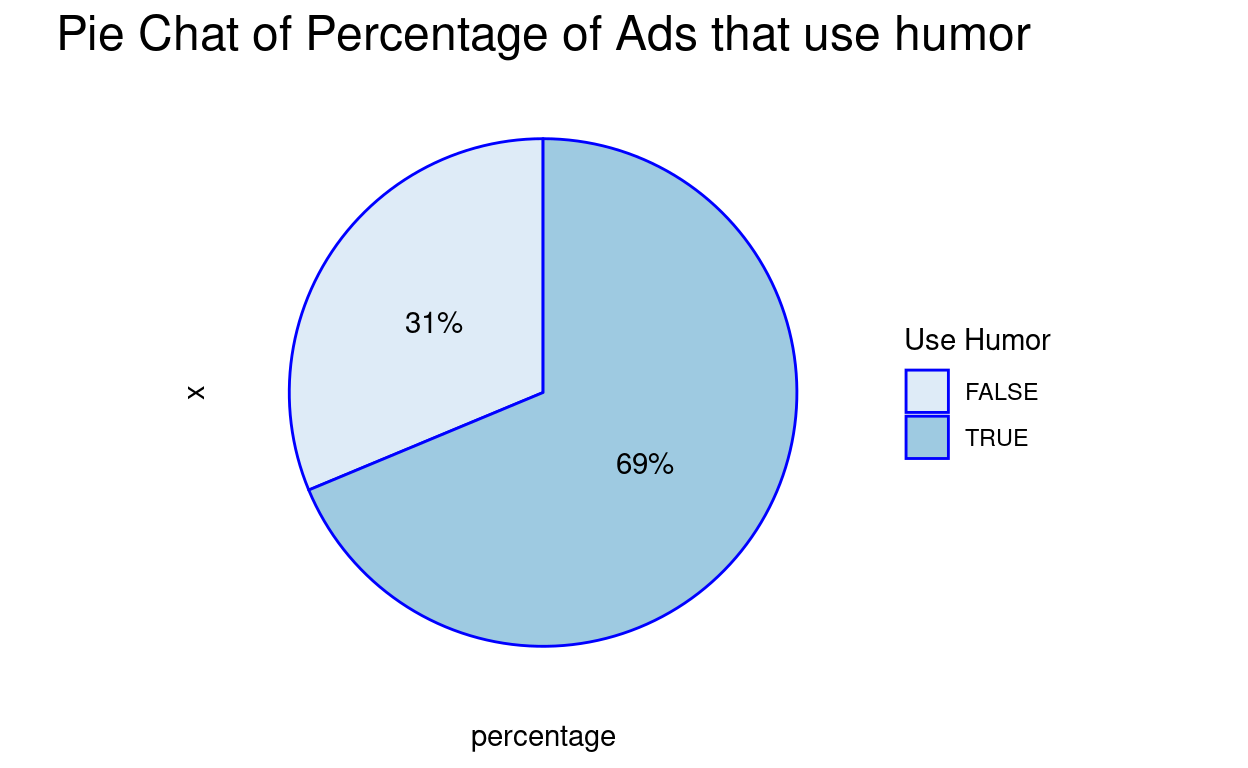
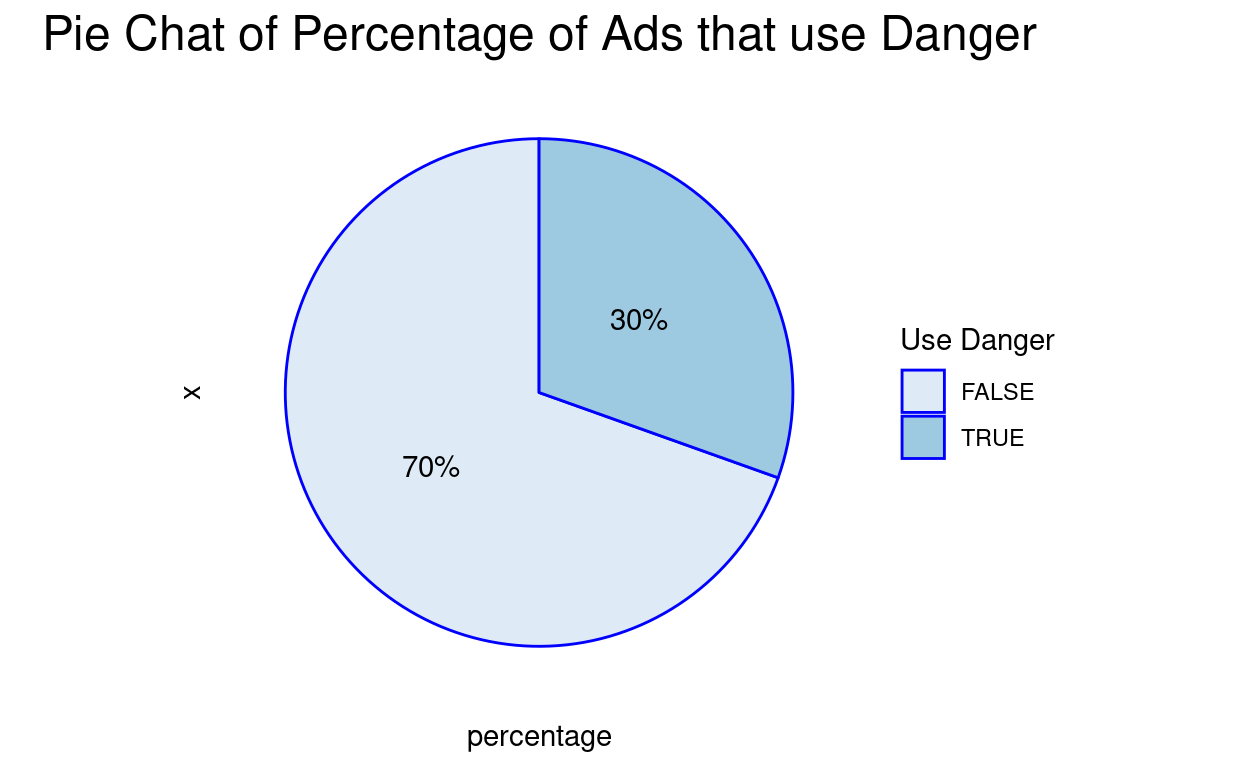
formatting

diff --git a/docs/costanalysis.html b/docs/costanalysis.html
@@ -2174,22 +2174,22 @@ code span.wa { color: #5e5e5e; font-style: italic; } /* Warning */
 
 </div>
 <div class="layout-chunk" data-layout="l-body">
-<div id="htmlwidget-2c9929de8510b4bedf44" style="width:624px;height:384px;" class="highchart html-widget"></div>
-<script type="application/json" data-for="htmlwidget-2c9929de8510b4bedf44">{"x":{"hc_opts":{"chart":{"reflow":true},"title":{"text":"Average Cost of Super Bowl Ads Over 20 Years"},"yAxis":{"title":{"text":"avg_ad_cost"},"type":"linear"},"credits":{"enabled":false},"exporting":{"enabled":false},"boost":{"enabled":false},"plotOptions":{"series":{"label":{"enabled":false},"turboThreshold":0,"showInLegend":true},"treemap":{"layoutAlgorithm":"squarified"},"scatter":{"marker":{"symbol":"circle"}}},"series":[{"name":2000,"data":[{"year":2000,"avg_ad_cost":2231250,"x":2000,"y":2231250}],"type":"line"},{"name":2001,"data":[{"year":2001,"avg_ad_cost":3046153.84615385,"x":2001,"y":3046153.84615385}],"type":"line"},{"name":2002,"data":[{"year":2002,"avg_ad_cost":2970000,"x":2002,"y":2970000}],"type":"line"},{"name":2003,"data":[{"year":2003,"avg_ad_cost":3483333.33333333,"x":2003,"y":3483333.33333333}],"type":"line"},{"name":2004,"data":[{"year":2004,"avg_ad_cost":2616136.36363636,"x":2004,"y":2616136.36363636}],"type":"line"},{"name":2005,"data":[{"year":2005,"avg_ad_cost":2700000,"x":2005,"y":2700000}],"type":"line"},{"name":2006,"data":[{"year":2006,"avg_ad_cost":2857142.85714286,"x":2006,"y":2857142.85714286}],"type":"line"},{"name":2007,"data":[{"year":2007,"avg_ad_cost":2896514.64285714,"x":2007,"y":2896514.64285714}],"type":"line"},{"name":2008,"data":[{"year":2008,"avg_ad_cost":3634565.57692308,"x":2008,"y":3634565.57692308}],"type":"line"},{"name":2009,"data":[{"year":2009,"avg_ad_cost":3999946.66666667,"x":2009,"y":3999946.66666667}],"type":"line"},{"name":2010,"data":[{"year":2010,"avg_ad_cost":4395848.21428571,"x":2010,"y":4395848.21428571}],"type":"line"},{"name":2011,"data":[{"year":2011,"avg_ad_cost":5855555.55555556,"x":2011,"y":5855555.55555556}],"type":"line"},{"name":2012,"data":[{"year":2012,"avg_ad_cost":5794444.44444444,"x":2012,"y":5794444.44444444}],"type":"line"},{"name":2013,"data":[{"year":2013,"avg_ad_cost":6037777.77777778,"x":2013,"y":6037777.77777778}],"type":"line"},{"name":2014,"data":[{"year":2014,"avg_ad_cost":7428571.42857143,"x":2014,"y":7428571.42857143}],"type":"line"},{"name":2015,"data":[{"year":2015,"avg_ad_cost":6375000,"x":2015,"y":6375000}],"type":"line"},{"name":2016,"data":[{"year":2016,"avg_ad_cost":6923076.92307692,"x":2016,"y":6923076.92307692}],"type":"line"},{"name":2017,"data":[{"year":2017,"avg_ad_cost":10000000,"x":2017,"y":10000000}],"type":"line"},{"name":2018,"data":[{"year":2018,"avg_ad_cost":8728571.42857143,"x":2018,"y":8728571.42857143}],"type":"line"},{"name":2019,"data":[{"year":2019,"avg_ad_cost":10423333.3333333,"x":2019,"y":10423333.3333333}],"type":"line"},{"name":2020,"data":[{"year":2020,"avg_ad_cost":11900000,"x":2020,"y":11900000}],"type":"line"}],"xAxis":{"type":"linear","title":{"text":"year"},"categories":null}},"theme":{"chart":{"backgroundColor":"transparent"},"colors":["#7cb5ec","#434348","#90ed7d","#f7a35c","#8085e9","#f15c80","#e4d354","#2b908f","#f45b5b","#91e8e1"]},"conf_opts":{"global":{"Date":null,"VMLRadialGradientURL":"http =//code.highcharts.com/list(version)/gfx/vml-radial-gradient.png","canvasToolsURL":"http =//code.highcharts.com/list(version)/modules/canvas-tools.js","getTimezoneOffset":null,"timezoneOffset":0,"useUTC":true},"lang":{"contextButtonTitle":"Chart context menu","decimalPoint":".","downloadCSV":"Download CSV","downloadJPEG":"Download JPEG image","downloadPDF":"Download PDF document","downloadPNG":"Download PNG image","downloadSVG":"Download SVG vector image","downloadXLS":"Download XLS","drillUpText":"◁ Back to {series.name}","exitFullscreen":"Exit from full screen","exportData":{"annotationHeader":"Annotations","categoryDatetimeHeader":"DateTime","categoryHeader":"Category"},"hideData":"Hide data table","invalidDate":null,"loading":"Loading...","months":["January","February","March","April","May","June","July","August","September","October","November","December"],"noData":"No data to display","numericSymbolMagnitude":1000,"numericSymbols":["k","M","G","T","P","E"],"printChart":"Print chart","resetZoom":"Reset zoom","resetZoomTitle":"Reset zoom level 1:1","shortMonths":["Jan","Feb","Mar","Apr","May","Jun","Jul","Aug","Sep","Oct","Nov","Dec"],"shortWeekdays":["Sat","Sun","Mon","Tue","Wed","Thu","Fri"],"thousandsSep":" ","viewData":"View data table","viewFullscreen":"View in full screen","weekdays":["Sunday","Monday","Tuesday","Wednesday","Thursday","Friday","Saturday"]}},"type":"chart","fonts":[],"debug":false},"evals":[],"jsHooks":[]}</script>
+<div id="htmlwidget-6475c9b25623a43f790e" style="width:624px;height:384px;" class="highchart html-widget"></div>
+<script type="application/json" data-for="htmlwidget-6475c9b25623a43f790e">{"x":{"hc_opts":{"chart":{"reflow":true},"title":{"text":"Average Cost of Super Bowl Ads Over 20 Years"},"yAxis":{"title":{"text":"avg_ad_cost"},"type":"linear"},"credits":{"enabled":false},"exporting":{"enabled":false},"boost":{"enabled":false},"plotOptions":{"series":{"label":{"enabled":false},"turboThreshold":0,"showInLegend":true},"treemap":{"layoutAlgorithm":"squarified"},"scatter":{"marker":{"symbol":"circle"}}},"series":[{"name":2000,"data":[{"year":2000,"avg_ad_cost":2231250,"x":2000,"y":2231250}],"type":"line"},{"name":2001,"data":[{"year":2001,"avg_ad_cost":3046153.84615385,"x":2001,"y":3046153.84615385}],"type":"line"},{"name":2002,"data":[{"year":2002,"avg_ad_cost":2970000,"x":2002,"y":2970000}],"type":"line"},{"name":2003,"data":[{"year":2003,"avg_ad_cost":3483333.33333333,"x":2003,"y":3483333.33333333}],"type":"line"},{"name":2004,"data":[{"year":2004,"avg_ad_cost":2616136.36363636,"x":2004,"y":2616136.36363636}],"type":"line"},{"name":2005,"data":[{"year":2005,"avg_ad_cost":2700000,"x":2005,"y":2700000}],"type":"line"},{"name":2006,"data":[{"year":2006,"avg_ad_cost":2857142.85714286,"x":2006,"y":2857142.85714286}],"type":"line"},{"name":2007,"data":[{"year":2007,"avg_ad_cost":2896514.64285714,"x":2007,"y":2896514.64285714}],"type":"line"},{"name":2008,"data":[{"year":2008,"avg_ad_cost":3634565.57692308,"x":2008,"y":3634565.57692308}],"type":"line"},{"name":2009,"data":[{"year":2009,"avg_ad_cost":3999946.66666667,"x":2009,"y":3999946.66666667}],"type":"line"},{"name":2010,"data":[{"year":2010,"avg_ad_cost":4395848.21428571,"x":2010,"y":4395848.21428571}],"type":"line"},{"name":2011,"data":[{"year":2011,"avg_ad_cost":5855555.55555556,"x":2011,"y":5855555.55555556}],"type":"line"},{"name":2012,"data":[{"year":2012,"avg_ad_cost":5794444.44444444,"x":2012,"y":5794444.44444444}],"type":"line"},{"name":2013,"data":[{"year":2013,"avg_ad_cost":6037777.77777778,"x":2013,"y":6037777.77777778}],"type":"line"},{"name":2014,"data":[{"year":2014,"avg_ad_cost":7428571.42857143,"x":2014,"y":7428571.42857143}],"type":"line"},{"name":2015,"data":[{"year":2015,"avg_ad_cost":6375000,"x":2015,"y":6375000}],"type":"line"},{"name":2016,"data":[{"year":2016,"avg_ad_cost":6923076.92307692,"x":2016,"y":6923076.92307692}],"type":"line"},{"name":2017,"data":[{"year":2017,"avg_ad_cost":10000000,"x":2017,"y":10000000}],"type":"line"},{"name":2018,"data":[{"year":2018,"avg_ad_cost":8728571.42857143,"x":2018,"y":8728571.42857143}],"type":"line"},{"name":2019,"data":[{"year":2019,"avg_ad_cost":10423333.3333333,"x":2019,"y":10423333.3333333}],"type":"line"},{"name":2020,"data":[{"year":2020,"avg_ad_cost":11900000,"x":2020,"y":11900000}],"type":"line"}],"xAxis":{"type":"linear","title":{"text":"year"},"categories":null}},"theme":{"chart":{"backgroundColor":"transparent"},"colors":["#7cb5ec","#434348","#90ed7d","#f7a35c","#8085e9","#f15c80","#e4d354","#2b908f","#f45b5b","#91e8e1"]},"conf_opts":{"global":{"Date":null,"VMLRadialGradientURL":"http =//code.highcharts.com/list(version)/gfx/vml-radial-gradient.png","canvasToolsURL":"http =//code.highcharts.com/list(version)/modules/canvas-tools.js","getTimezoneOffset":null,"timezoneOffset":0,"useUTC":true},"lang":{"contextButtonTitle":"Chart context menu","decimalPoint":".","downloadCSV":"Download CSV","downloadJPEG":"Download JPEG image","downloadPDF":"Download PDF document","downloadPNG":"Download PNG image","downloadSVG":"Download SVG vector image","downloadXLS":"Download XLS","drillUpText":"◁ Back to {series.name}","exitFullscreen":"Exit from full screen","exportData":{"annotationHeader":"Annotations","categoryDatetimeHeader":"DateTime","categoryHeader":"Category"},"hideData":"Hide data table","invalidDate":null,"loading":"Loading...","months":["January","February","March","April","May","June","July","August","September","October","November","December"],"noData":"No data to display","numericSymbolMagnitude":1000,"numericSymbols":["k","M","G","T","P","E"],"printChart":"Print chart","resetZoom":"Reset zoom","resetZoomTitle":"Reset zoom level 1:1","shortMonths":["Jan","Feb","Mar","Apr","May","Jun","Jul","Aug","Sep","Oct","Nov","Dec"],"shortWeekdays":["Sat","Sun","Mon","Tue","Wed","Thu","Fri"],"thousandsSep":" ","viewData":"View data table","viewFullscreen":"View in full screen","weekdays":["Sunday","Monday","Tuesday","Wednesday","Thursday","Friday","Saturday"]}},"type":"chart","fonts":[],"debug":false},"evals":[],"jsHooks":[]}</script>
 </div>
 <div class="layout-chunk" data-layout="l-body">
 <p><img src="costanalysis_files/figure-html5/boxplot,%20reorder-1.png" width="624" /></p>
 </div>
 <p>sunburst Plot of total Ad Cost</p>
 <div class="layout-chunk" data-layout="l-body">
-<div id="htmlwidget-b48b0747140eea3d19dc" style="width:624px;height:384px;" class="highchart html-widget"></div>
-<script type="application/json" data-for="htmlwidget-b48b0747140eea3d19dc">{"x":{"hc_opts":{"chart":{"reflow":true},"title":{"text":"Total Ad Cost by Category and Brand in Millions from 2000-2020"},"yAxis":{"title":{"text":null}},"credits":{"enabled":false},"exporting":{"enabled":false},"boost":{"enabled":false},"plotOptions":{"series":{"label":{"enabled":false},"turboThreshold":0},"treemap":{"layoutAlgorithm":"squarified"}},"series":[{"data":[{"name":"beer","id":"beer","color":"#7cb5ec","level":1},{"name":"car","id":"car","color":"#434348","level":1},{"name":"pop","id":"pop","color":"#90ed7d","level":1},{"name":"NFL","id":"nfl","color":"#f7a35c","level":1},{"name":"snack","id":"snack","color":"#8085e9","level":1},{"name":"finance","id":"finance","color":"#f15c80","level":1},{"name":"Bud Light","id":"beer_bud_light","parent":"beer","value":235.373121,"level":2},{"name":"Budweiser","id":"beer_budweiser","parent":"beer","value":195.2654035,"level":2},{"name":"Hynudai","id":"car_hynudai","parent":"car","value":168.717199666667,"level":2},{"name":"Coca-Cola","id":"pop_coca-cola","parent":"pop","value":131.955784,"level":2},{"name":"Kia","id":"car_kia","parent":"car","value":131.535025,"level":2},{"name":"NFL","id":"nfl_nfl","parent":"nfl","value":126.30802,"level":2},{"name":"Doritos","id":"snack_doritos","parent":"snack","value":102.207603,"level":2},{"name":"Toyota","id":"car_toyota","parent":"car","value":97.6895966666667,"level":2},{"name":"Pepsi","id":"pop_pepsi","parent":"pop","value":92.630383,"level":2},{"name":"E-Trade","id":"finance_e-trade","parent":"finance","value":38.67033,"level":2}],"type":"sunburst"}]},"theme":{"chart":{"backgroundColor":"transparent"},"colors":["#7cb5ec","#434348","#90ed7d","#f7a35c","#8085e9","#f15c80","#e4d354","#2b908f","#f45b5b","#91e8e1"]},"conf_opts":{"global":{"Date":null,"VMLRadialGradientURL":"http =//code.highcharts.com/list(version)/gfx/vml-radial-gradient.png","canvasToolsURL":"http =//code.highcharts.com/list(version)/modules/canvas-tools.js","getTimezoneOffset":null,"timezoneOffset":0,"useUTC":true},"lang":{"contextButtonTitle":"Chart context menu","decimalPoint":".","downloadCSV":"Download CSV","downloadJPEG":"Download JPEG image","downloadPDF":"Download PDF document","downloadPNG":"Download PNG image","downloadSVG":"Download SVG vector image","downloadXLS":"Download XLS","drillUpText":"◁ Back to {series.name}","exitFullscreen":"Exit from full screen","exportData":{"annotationHeader":"Annotations","categoryDatetimeHeader":"DateTime","categoryHeader":"Category"},"hideData":"Hide data table","invalidDate":null,"loading":"Loading...","months":["January","February","March","April","May","June","July","August","September","October","November","December"],"noData":"No data to display","numericSymbolMagnitude":1000,"numericSymbols":["k","M","G","T","P","E"],"printChart":"Print chart","resetZoom":"Reset zoom","resetZoomTitle":"Reset zoom level 1:1","shortMonths":["Jan","Feb","Mar","Apr","May","Jun","Jul","Aug","Sep","Oct","Nov","Dec"],"shortWeekdays":["Sat","Sun","Mon","Tue","Wed","Thu","Fri"],"thousandsSep":" ","viewData":"View data table","viewFullscreen":"View in full screen","weekdays":["Sunday","Monday","Tuesday","Wednesday","Thursday","Friday","Saturday"]}},"type":"chart","fonts":[],"debug":false},"evals":[],"jsHooks":[]}</script>
-<div id="htmlwidget-c3c75205a7a7ac2eb5e8" style="width:624px;height:384px;" class="highchart html-widget"></div>
-<script type="application/json" data-for="htmlwidget-c3c75205a7a7ac2eb5e8">{"x":{"hc_opts":{"chart":{"reflow":true},"title":{"text":null},"yAxis":{"title":{"text":null}},"credits":{"enabled":false},"exporting":{"enabled":false},"boost":{"enabled":false},"plotOptions":{"series":{"label":{"enabled":false},"turboThreshold":0},"treemap":{"layoutAlgorithm":"squarified"}},"series":[{"data":[{"name":"beer","id":"beer","color":"#7cb5ec","level":1},{"name":"car","id":"car","color":"#434348","level":1},{"name":"pop","id":"pop","color":"#90ed7d","level":1},{"name":"NFL","id":"nfl","color":"#f7a35c","level":1},{"name":"snack","id":"snack","color":"#8085e9","level":1},{"name":"finance","id":"finance","color":"#f15c80","level":1},{"name":"Bud Light","id":"beer_bud_light","parent":"beer","value":235.373121,"level":2},{"name":"Budweiser","id":"beer_budweiser","parent":"beer","value":195.2654035,"level":2},{"name":"Hynudai","id":"car_hynudai","parent":"car","value":168.717199666667,"level":2},{"name":"Coca-Cola","id":"pop_coca-cola","parent":"pop","value":131.955784,"level":2},{"name":"Kia","id":"car_kia","parent":"car","value":131.535025,"level":2},{"name":"NFL","id":"nfl_nfl","parent":"nfl","value":126.30802,"level":2},{"name":"Doritos","id":"snack_doritos","parent":"snack","value":102.207603,"level":2},{"name":"Toyota","id":"car_toyota","parent":"car","value":97.6895966666667,"level":2},{"name":"Pepsi","id":"pop_pepsi","parent":"pop","value":92.630383,"level":2},{"name":"E-Trade","id":"finance_e-trade","parent":"finance","value":38.67033,"level":2}],"type":"treemap"}]},"theme":{"chart":{"backgroundColor":"transparent"},"colors":["#7cb5ec","#434348","#90ed7d","#f7a35c","#8085e9","#f15c80","#e4d354","#2b908f","#f45b5b","#91e8e1"]},"conf_opts":{"global":{"Date":null,"VMLRadialGradientURL":"http =//code.highcharts.com/list(version)/gfx/vml-radial-gradient.png","canvasToolsURL":"http =//code.highcharts.com/list(version)/modules/canvas-tools.js","getTimezoneOffset":null,"timezoneOffset":0,"useUTC":true},"lang":{"contextButtonTitle":"Chart context menu","decimalPoint":".","downloadCSV":"Download CSV","downloadJPEG":"Download JPEG image","downloadPDF":"Download PDF document","downloadPNG":"Download PNG image","downloadSVG":"Download SVG vector image","downloadXLS":"Download XLS","drillUpText":"◁ Back to {series.name}","exitFullscreen":"Exit from full screen","exportData":{"annotationHeader":"Annotations","categoryDatetimeHeader":"DateTime","categoryHeader":"Category"},"hideData":"Hide data table","invalidDate":null,"loading":"Loading...","months":["January","February","March","April","May","June","July","August","September","October","November","December"],"noData":"No data to display","numericSymbolMagnitude":1000,"numericSymbols":["k","M","G","T","P","E"],"printChart":"Print chart","resetZoom":"Reset zoom","resetZoomTitle":"Reset zoom level 1:1","shortMonths":["Jan","Feb","Mar","Apr","May","Jun","Jul","Aug","Sep","Oct","Nov","Dec"],"shortWeekdays":["Sat","Sun","Mon","Tue","Wed","Thu","Fri"],"thousandsSep":" ","viewData":"View data table","viewFullscreen":"View in full screen","weekdays":["Sunday","Monday","Tuesday","Wednesday","Thursday","Friday","Saturday"]}},"type":"chart","fonts":[],"debug":false},"evals":[],"jsHooks":[]}</script>
+<div id="htmlwidget-63b62a30d27b4cc0ba81" style="width:624px;height:384px;" class="highchart html-widget"></div>
+<script type="application/json" data-for="htmlwidget-63b62a30d27b4cc0ba81">{"x":{"hc_opts":{"chart":{"reflow":true},"title":{"text":"Total Ad Cost by Category and Brand in Millions from 2000-2020"},"yAxis":{"title":{"text":null}},"credits":{"enabled":false},"exporting":{"enabled":false},"boost":{"enabled":false},"plotOptions":{"series":{"label":{"enabled":false},"turboThreshold":0},"treemap":{"layoutAlgorithm":"squarified"}},"series":[{"data":[{"name":"beer","id":"beer","color":"#7cb5ec","level":1},{"name":"car","id":"car","color":"#434348","level":1},{"name":"pop","id":"pop","color":"#90ed7d","level":1},{"name":"NFL","id":"nfl","color":"#f7a35c","level":1},{"name":"snack","id":"snack","color":"#8085e9","level":1},{"name":"finance","id":"finance","color":"#f15c80","level":1},{"name":"Bud Light","id":"beer_bud_light","parent":"beer","value":235.373121,"level":2},{"name":"Budweiser","id":"beer_budweiser","parent":"beer","value":195.2654035,"level":2},{"name":"Hynudai","id":"car_hynudai","parent":"car","value":168.717199666667,"level":2},{"name":"Coca-Cola","id":"pop_coca-cola","parent":"pop","value":131.955784,"level":2},{"name":"Kia","id":"car_kia","parent":"car","value":131.535025,"level":2},{"name":"NFL","id":"nfl_nfl","parent":"nfl","value":126.30802,"level":2},{"name":"Doritos","id":"snack_doritos","parent":"snack","value":102.207603,"level":2},{"name":"Toyota","id":"car_toyota","parent":"car","value":97.6895966666667,"level":2},{"name":"Pepsi","id":"pop_pepsi","parent":"pop","value":92.630383,"level":2},{"name":"E-Trade","id":"finance_e-trade","parent":"finance","value":38.67033,"level":2}],"type":"sunburst"}]},"theme":{"chart":{"backgroundColor":"transparent"},"colors":["#7cb5ec","#434348","#90ed7d","#f7a35c","#8085e9","#f15c80","#e4d354","#2b908f","#f45b5b","#91e8e1"]},"conf_opts":{"global":{"Date":null,"VMLRadialGradientURL":"http =//code.highcharts.com/list(version)/gfx/vml-radial-gradient.png","canvasToolsURL":"http =//code.highcharts.com/list(version)/modules/canvas-tools.js","getTimezoneOffset":null,"timezoneOffset":0,"useUTC":true},"lang":{"contextButtonTitle":"Chart context menu","decimalPoint":".","downloadCSV":"Download CSV","downloadJPEG":"Download JPEG image","downloadPDF":"Download PDF document","downloadPNG":"Download PNG image","downloadSVG":"Download SVG vector image","downloadXLS":"Download XLS","drillUpText":"◁ Back to {series.name}","exitFullscreen":"Exit from full screen","exportData":{"annotationHeader":"Annotations","categoryDatetimeHeader":"DateTime","categoryHeader":"Category"},"hideData":"Hide data table","invalidDate":null,"loading":"Loading...","months":["January","February","March","April","May","June","July","August","September","October","November","December"],"noData":"No data to display","numericSymbolMagnitude":1000,"numericSymbols":["k","M","G","T","P","E"],"printChart":"Print chart","resetZoom":"Reset zoom","resetZoomTitle":"Reset zoom level 1:1","shortMonths":["Jan","Feb","Mar","Apr","May","Jun","Jul","Aug","Sep","Oct","Nov","Dec"],"shortWeekdays":["Sat","Sun","Mon","Tue","Wed","Thu","Fri"],"thousandsSep":" ","viewData":"View data table","viewFullscreen":"View in full screen","weekdays":["Sunday","Monday","Tuesday","Wednesday","Thursday","Friday","Saturday"]}},"type":"chart","fonts":[],"debug":false},"evals":[],"jsHooks":[]}</script>
+<div id="htmlwidget-50eef1d43baa38a92bda" style="width:624px;height:384px;" class="highchart html-widget"></div>
+<script type="application/json" data-for="htmlwidget-50eef1d43baa38a92bda">{"x":{"hc_opts":{"chart":{"reflow":true},"title":{"text":null},"yAxis":{"title":{"text":null}},"credits":{"enabled":false},"exporting":{"enabled":false},"boost":{"enabled":false},"plotOptions":{"series":{"label":{"enabled":false},"turboThreshold":0},"treemap":{"layoutAlgorithm":"squarified"}},"series":[{"data":[{"name":"beer","id":"beer","color":"#7cb5ec","level":1},{"name":"car","id":"car","color":"#434348","level":1},{"name":"pop","id":"pop","color":"#90ed7d","level":1},{"name":"NFL","id":"nfl","color":"#f7a35c","level":1},{"name":"snack","id":"snack","color":"#8085e9","level":1},{"name":"finance","id":"finance","color":"#f15c80","level":1},{"name":"Bud Light","id":"beer_bud_light","parent":"beer","value":235.373121,"level":2},{"name":"Budweiser","id":"beer_budweiser","parent":"beer","value":195.2654035,"level":2},{"name":"Hynudai","id":"car_hynudai","parent":"car","value":168.717199666667,"level":2},{"name":"Coca-Cola","id":"pop_coca-cola","parent":"pop","value":131.955784,"level":2},{"name":"Kia","id":"car_kia","parent":"car","value":131.535025,"level":2},{"name":"NFL","id":"nfl_nfl","parent":"nfl","value":126.30802,"level":2},{"name":"Doritos","id":"snack_doritos","parent":"snack","value":102.207603,"level":2},{"name":"Toyota","id":"car_toyota","parent":"car","value":97.6895966666667,"level":2},{"name":"Pepsi","id":"pop_pepsi","parent":"pop","value":92.630383,"level":2},{"name":"E-Trade","id":"finance_e-trade","parent":"finance","value":38.67033,"level":2}],"type":"treemap"}]},"theme":{"chart":{"backgroundColor":"transparent"},"colors":["#7cb5ec","#434348","#90ed7d","#f7a35c","#8085e9","#f15c80","#e4d354","#2b908f","#f45b5b","#91e8e1"]},"conf_opts":{"global":{"Date":null,"VMLRadialGradientURL":"http =//code.highcharts.com/list(version)/gfx/vml-radial-gradient.png","canvasToolsURL":"http =//code.highcharts.com/list(version)/modules/canvas-tools.js","getTimezoneOffset":null,"timezoneOffset":0,"useUTC":true},"lang":{"contextButtonTitle":"Chart context menu","decimalPoint":".","downloadCSV":"Download CSV","downloadJPEG":"Download JPEG image","downloadPDF":"Download PDF document","downloadPNG":"Download PNG image","downloadSVG":"Download SVG vector image","downloadXLS":"Download XLS","drillUpText":"◁ Back to {series.name}","exitFullscreen":"Exit from full screen","exportData":{"annotationHeader":"Annotations","categoryDatetimeHeader":"DateTime","categoryHeader":"Category"},"hideData":"Hide data table","invalidDate":null,"loading":"Loading...","months":["January","February","March","April","May","June","July","August","September","October","November","December"],"noData":"No data to display","numericSymbolMagnitude":1000,"numericSymbols":["k","M","G","T","P","E"],"printChart":"Print chart","resetZoom":"Reset zoom","resetZoomTitle":"Reset zoom level 1:1","shortMonths":["Jan","Feb","Mar","Apr","May","Jun","Jul","Aug","Sep","Oct","Nov","Dec"],"shortWeekdays":["Sat","Sun","Mon","Tue","Wed","Thu","Fri"],"thousandsSep":" ","viewData":"View data table","viewFullscreen":"View in full screen","weekdays":["Sunday","Monday","Tuesday","Wednesday","Thursday","Friday","Saturday"]}},"type":"chart","fonts":[],"debug":false},"evals":[],"jsHooks":[]}</script>
 </div>
 <div class="layout-chunk" data-layout="l-body">
-<div id="htmlwidget-3b429a6173fffc616132" style="width:624px;height:384px;" class="plotly html-widget"></div>
-<script type="application/json" data-for="htmlwidget-3b429a6173fffc616132">{"x":{"data":[{"x":[2006,2003,2020,2010,2007,2002,2005,2004,2007,2009,2010,2001,2001,2000,2013,2009,2019,2007,2011,2002,2004,2015,2001,2003,2000,2016,2004,2015,2017,2000,2012,2008,2016,2009,2019,2003,2014,2007,2018,2018,2004,2002,2006,2014,2014,2003,2009,2013,2008,2003,2013,2005,2005,2008,2002,2002,2008,2005,2004,2008,2006,2007,2010,2018,2000,2002,2019,2008,2008,2013,2003,2016,2012,2004,2007,2007,2002,2003,2003,2013,2010,2003,2006,2019,2012,2006,2014,2005,2007,2015,2019,2004,2003,2004,2014,2002,2000,2001,2000,2008,2012,2001],"y":[2.5,2.2,11.2,2.95401,2.385365,4.4,2.4,2.3022,2.385365,5.99992,4.431015,2.2,2.2,2.1,3.8,2.99996,2.65,2.385365,3.1,2.2,2.3022,4.25,2.2,2.2,2.1,9,4.6044,8.5,10,2.1,7,5.399926,9,2.99996,10.6,2.2,8,2.385365,10.4,10.4,2.3022,2.2,2.5,8,4,2.2,2.99996,3.8,2.699963,2.2,7.6,1.2,3.6,4.0499445,2.2,3.3,2.699963,2.4,2.3022,1.3499815,1.25,3.5780475,5.90802,10.4,4.2,4.4,10.6,5.399926,5.399926,7.6,4.4,4.5,7,2.3022,2.385365,2.385365,3.3,4.4,4.4,3.8,5.90802,4.4,1.25,10.6,5.25,5,4,3.6,3.5780475,4.25,7.95,2.3022,2.2,2.3022,6,2.2,2.1,3.3,1.05,4.0499445,3.5,2.2],"text":"","type":"scatter","mode":"markers","marker":{"autocolorscale":false,"color":"rgba(248,118,109,1)","opacity":0.5,"size":11.3385826771654,"symbol":"circle","line":{"width":1.88976377952756,"color":"rgba(0,0,0,1)"}},"hoveron":"points","name":"beer","legendgroup":"beer","showlegend":true,"xaxis":"x","yaxis":"y","hoverinfo":"text","frame":null},{"x":[2018,2018,2020,2020,2020,2010,2019,2011,2013,2016,2013,2018,2017,2009,2016,2019,2016,2016,2004,2017,2013,2019,2012,2011,2015,2008,2014,2014,2014,2012,2012,2010,2016,2010,2011,2019,2013,2011,2013,2019,2018,2007,2014,2009,2013,2015],"y":[10.4,10.4,11.2,11.2,11.2,2.95401,13.25,6.2,3.8,4.5,12.6666666666667,13,10,2.99996,4.5,10.6,9,9,2.3022,15,5.7,10.6,3.5,3.1,8.5,2.699963,4,12,8,11.6666666666667,8.75,9.8467,9,7.385025,12.4,13.25,9.5,6.2,9.5,13.25,10.4,4.77073,10,7.4999,9.5,12.75],"text":"","type":"scatter","mode":"markers","marker":{"autocolorscale":false,"color":"rgba(183,159,0,1)","opacity":0.5,"size":11.3385826771654,"symbol":"circle","line":{"width":1.88976377952756,"color":"rgba(0,0,0,1)"}},"hoveron":"points","name":"car","legendgroup":"car","showlegend":true,"xaxis":"x","yaxis":"y","hoverinfo":"text","frame":null},{"x":[2000,2010,2000,2007,2012,2013,2001,2010,2018,2010,2002,2009,2001],"y":[2.1,1.477005,2.1,2.385365,3.5,3.8,2.2,2.95401,5.2,2.95401,2.2,4.49994,3.3],"text":"","type":"scatter","mode":"markers","marker":{"autocolorscale":false,"color":"rgba(0,186,56,1)","opacity":0.5,"size":11.3385826771654,"symbol":"circle","line":{"width":1.88976377952756,"color":"rgba(0,0,0,1)"}},"hoveron":"points","name":"finance","legendgroup":"finance","showlegend":true,"xaxis":"x","yaxis":"y","hoverinfo":"text","frame":null},{"x":[2020,2017,2019,2018,2017,2016,2010,2012,2003,2001,2014],"y":[22.4,5,21.2,5.2,10,9,5.90802,14,8.8,8.8,16],"text":"","type":"scatter","mode":"markers","marker":{"autocolorscale":false,"color":"rgba(0,191,196,1)","opacity":0.5,"size":11.3385826771654,"symbol":"circle","line":{"width":1.88976377952756,"color":"rgba(0,0,0,1)"}},"hoveron":"points","name":"NFL","legendgroup":"NFL","showlegend":true,"xaxis":"x","yaxis":"y","hoverinfo":"text","frame":null},{"x":[2020,2009,2020,2019,2011,2019,2018,2004,2018,2016,2011,2007,2014,2016,2018,2001,2009,2019,2005,2009,2012,2012,2004,2007,2009,2009,2012,2008,2008,2001,2018,2011,2008,2014,2012,2006,2006,2015,2005,2005,2013,2003,2015,2002,2001,2001],"y":[11.2,2.99996,5.6,5.3,6.2,5.3,5.2,3.4533,5.2,4.5,6.2,4.77073,8,9,10.4,4.4,5.99992,10.6,3.6,5.99992,3.5,3.5,2.3022,2.385365,2.99996,2.99996,3.5,2.699963,2.699963,2.2,10.4,6.2,5.399926,8,5.25,2.5,5,6.375,2.4,2.4,3.8,2.2,4.25,3.3,2.2,2.2],"text":"","type":"scatter","mode":"markers","marker":{"autocolorscale":false,"color":"rgba(97,156,255,1)","opacity":0.5,"size":11.3385826771654,"symbol":"circle","line":{"width":1.88976377952756,"color":"rgba(0,0,0,1)"}},"hoveron":"points","name":"pop","legendgroup":"pop","showlegend":true,"xaxis":"x","yaxis":"y","hoverinfo":"text","frame":null},{"x":[2020,2019,2018,2013,2007,2009,2010,2015,2014,2015,2010,2011,2014,2012,2016,2010,2013,2009,2015,2008,2009,2012,2001,2016,2007],"y":[11.2,10.6,5.2,3.8,2.385365,2.99996,2.95401,4.25,4,4.25,2.95401,3.1,4,3.5,4.5,2.95401,1.9,2.99996,6.375,2.699963,2.99996,3.5,2.2,4.5,2.385365],"text":"","type":"scatter","mode":"markers","marker":{"autocolorscale":false,"color":"rgba(245,100,227,1)","opacity":0.5,"size":11.3385826771654,"symbol":"circle","line":{"width":1.88976377952756,"color":"rgba(0,0,0,1)"}},"hoveron":"points","name":"snack","legendgroup":"snack","showlegend":true,"xaxis":"x","yaxis":"y","hoverinfo":"text","frame":null}],"layout":{"margin":{"t":45.4063926940639,"r":7.30593607305936,"b":41.8264840182648,"l":37.2602739726027},"plot_bgcolor":"rgba(235,235,235,1)","paper_bgcolor":"rgba(255,255,255,1)","font":{"color":"rgba(0,0,0,1)","family":"","size":14.6118721461187},"title":{"text":"Ad Cost by Year and Category","font":{"color":"rgba(0,0,0,1)","family":"","size":17.5342465753425},"x":0,"xref":"paper"},"xaxis":{"domain":[0,1],"automargin":true,"type":"linear","autorange":false,"range":[1999,2021],"tickmode":"array","ticktext":["2000","2005","2010","2015","2020"],"tickvals":[2000,2005,2010,2015,2020],"categoryorder":"array","categoryarray":["2000","2005","2010","2015","2020"],"nticks":null,"ticks":"outside","tickcolor":"rgba(51,51,51,1)","ticklen":3.65296803652968,"tickwidth":0.66417600664176,"showticklabels":true,"tickfont":{"color":"rgba(77,77,77,1)","family":"","size":11.689497716895},"tickangle":-0,"showline":false,"linecolor":null,"linewidth":0,"showgrid":true,"gridcolor":"rgba(255,255,255,1)","gridwidth":0.66417600664176,"zeroline":false,"anchor":"y","title":{"text":"Year","font":{"color":"rgba(0,0,0,1)","family":"","size":14.6118721461187}},"hoverformat":".2f"},"yaxis":{"domain":[0,1],"automargin":true,"type":"linear","autorange":false,"range":[-0.0174999999999998,23.4675],"tickmode":"array","ticktext":["0","5","10","15","20"],"tickvals":[0,5,10,15,20],"categoryorder":"array","categoryarray":["0","5","10","15","20"],"nticks":null,"ticks":"outside","tickcolor":"rgba(51,51,51,1)","ticklen":3.65296803652968,"tickwidth":0.66417600664176,"showticklabels":true,"tickfont":{"color":"rgba(77,77,77,1)","family":"","size":11.689497716895},"tickangle":-0,"showline":false,"linecolor":null,"linewidth":0,"showgrid":true,"gridcolor":"rgba(255,255,255,1)","gridwidth":0.66417600664176,"zeroline":false,"anchor":"x","title":{"text":"Cost of Ad in Millions","font":{"color":"rgba(0,0,0,1)","family":"","size":14.6118721461187}},"hoverformat":".2f"},"shapes":[{"type":"rect","fillcolor":null,"line":{"color":null,"width":0,"linetype":[]},"yref":"paper","xref":"paper","x0":0,"x1":1,"y0":0,"y1":1}],"showlegend":true,"legend":{"bgcolor":"rgba(255,255,255,1)","bordercolor":"transparent","borderwidth":1.88976377952756,"font":{"color":"rgba(0,0,0,1)","family":"","size":11.689497716895},"title":{"text":"category","font":{"color":"rgba(0,0,0,1)","family":"","size":14.6118721461187}}},"hovermode":"closest","barmode":"relative"},"config":{"doubleClick":"reset","modeBarButtonsToAdd":["hoverclosest","hovercompare"],"showSendToCloud":false},"source":"A","attrs":{"138f8741089449":{"x":{},"y":{},"fill":{},"type":"scatter"}},"cur_data":"138f8741089449","visdat":{"138f8741089449":["function (y) ","x"]},"highlight":{"on":"plotly_click","persistent":false,"dynamic":false,"selectize":false,"opacityDim":0.2,"selected":{"opacity":1},"debounce":0},"shinyEvents":["plotly_hover","plotly_click","plotly_selected","plotly_relayout","plotly_brushed","plotly_brushing","plotly_clickannotation","plotly_doubleclick","plotly_deselect","plotly_afterplot","plotly_sunburstclick"],"base_url":"https://plot.ly"},"evals":[],"jsHooks":[]}</script>
+<div id="htmlwidget-e15693a2b7a6190adfba" style="width:624px;height:384px;" class="plotly html-widget"></div>
+<script type="application/json" data-for="htmlwidget-e15693a2b7a6190adfba">{"x":{"data":[{"x":[2006,2003,2020,2010,2007,2002,2005,2004,2007,2009,2010,2001,2001,2000,2013,2009,2019,2007,2011,2002,2004,2015,2001,2003,2000,2016,2004,2015,2017,2000,2012,2008,2016,2009,2019,2003,2014,2007,2018,2018,2004,2002,2006,2014,2014,2003,2009,2013,2008,2003,2013,2005,2005,2008,2002,2002,2008,2005,2004,2008,2006,2007,2010,2018,2000,2002,2019,2008,2008,2013,2003,2016,2012,2004,2007,2007,2002,2003,2003,2013,2010,2003,2006,2019,2012,2006,2014,2005,2007,2015,2019,2004,2003,2004,2014,2002,2000,2001,2000,2008,2012,2001],"y":[2.5,2.2,11.2,2.95401,2.385365,4.4,2.4,2.3022,2.385365,5.99992,4.431015,2.2,2.2,2.1,3.8,2.99996,2.65,2.385365,3.1,2.2,2.3022,4.25,2.2,2.2,2.1,9,4.6044,8.5,10,2.1,7,5.399926,9,2.99996,10.6,2.2,8,2.385365,10.4,10.4,2.3022,2.2,2.5,8,4,2.2,2.99996,3.8,2.699963,2.2,7.6,1.2,3.6,4.0499445,2.2,3.3,2.699963,2.4,2.3022,1.3499815,1.25,3.5780475,5.90802,10.4,4.2,4.4,10.6,5.399926,5.399926,7.6,4.4,4.5,7,2.3022,2.385365,2.385365,3.3,4.4,4.4,3.8,5.90802,4.4,1.25,10.6,5.25,5,4,3.6,3.5780475,4.25,7.95,2.3022,2.2,2.3022,6,2.2,2.1,3.3,1.05,4.0499445,3.5,2.2],"text":"","type":"scatter","mode":"markers","marker":{"autocolorscale":false,"color":"rgba(248,118,109,1)","opacity":0.5,"size":11.3385826771654,"symbol":"circle","line":{"width":1.88976377952756,"color":"rgba(0,0,0,1)"}},"hoveron":"points","name":"beer","legendgroup":"beer","showlegend":true,"xaxis":"x","yaxis":"y","hoverinfo":"text","frame":null},{"x":[2018,2018,2020,2020,2020,2010,2019,2011,2013,2016,2013,2018,2017,2009,2016,2019,2016,2016,2004,2017,2013,2019,2012,2011,2015,2008,2014,2014,2014,2012,2012,2010,2016,2010,2011,2019,2013,2011,2013,2019,2018,2007,2014,2009,2013,2015],"y":[10.4,10.4,11.2,11.2,11.2,2.95401,13.25,6.2,3.8,4.5,12.6666666666667,13,10,2.99996,4.5,10.6,9,9,2.3022,15,5.7,10.6,3.5,3.1,8.5,2.699963,4,12,8,11.6666666666667,8.75,9.8467,9,7.385025,12.4,13.25,9.5,6.2,9.5,13.25,10.4,4.77073,10,7.4999,9.5,12.75],"text":"","type":"scatter","mode":"markers","marker":{"autocolorscale":false,"color":"rgba(183,159,0,1)","opacity":0.5,"size":11.3385826771654,"symbol":"circle","line":{"width":1.88976377952756,"color":"rgba(0,0,0,1)"}},"hoveron":"points","name":"car","legendgroup":"car","showlegend":true,"xaxis":"x","yaxis":"y","hoverinfo":"text","frame":null},{"x":[2000,2010,2000,2007,2012,2013,2001,2010,2018,2010,2002,2009,2001],"y":[2.1,1.477005,2.1,2.385365,3.5,3.8,2.2,2.95401,5.2,2.95401,2.2,4.49994,3.3],"text":"","type":"scatter","mode":"markers","marker":{"autocolorscale":false,"color":"rgba(0,186,56,1)","opacity":0.5,"size":11.3385826771654,"symbol":"circle","line":{"width":1.88976377952756,"color":"rgba(0,0,0,1)"}},"hoveron":"points","name":"finance","legendgroup":"finance","showlegend":true,"xaxis":"x","yaxis":"y","hoverinfo":"text","frame":null},{"x":[2020,2017,2019,2018,2017,2016,2010,2012,2003,2001,2014],"y":[22.4,5,21.2,5.2,10,9,5.90802,14,8.8,8.8,16],"text":"","type":"scatter","mode":"markers","marker":{"autocolorscale":false,"color":"rgba(0,191,196,1)","opacity":0.5,"size":11.3385826771654,"symbol":"circle","line":{"width":1.88976377952756,"color":"rgba(0,0,0,1)"}},"hoveron":"points","name":"NFL","legendgroup":"NFL","showlegend":true,"xaxis":"x","yaxis":"y","hoverinfo":"text","frame":null},{"x":[2020,2009,2020,2019,2011,2019,2018,2004,2018,2016,2011,2007,2014,2016,2018,2001,2009,2019,2005,2009,2012,2012,2004,2007,2009,2009,2012,2008,2008,2001,2018,2011,2008,2014,2012,2006,2006,2015,2005,2005,2013,2003,2015,2002,2001,2001],"y":[11.2,2.99996,5.6,5.3,6.2,5.3,5.2,3.4533,5.2,4.5,6.2,4.77073,8,9,10.4,4.4,5.99992,10.6,3.6,5.99992,3.5,3.5,2.3022,2.385365,2.99996,2.99996,3.5,2.699963,2.699963,2.2,10.4,6.2,5.399926,8,5.25,2.5,5,6.375,2.4,2.4,3.8,2.2,4.25,3.3,2.2,2.2],"text":"","type":"scatter","mode":"markers","marker":{"autocolorscale":false,"color":"rgba(97,156,255,1)","opacity":0.5,"size":11.3385826771654,"symbol":"circle","line":{"width":1.88976377952756,"color":"rgba(0,0,0,1)"}},"hoveron":"points","name":"pop","legendgroup":"pop","showlegend":true,"xaxis":"x","yaxis":"y","hoverinfo":"text","frame":null},{"x":[2020,2019,2018,2013,2007,2009,2010,2015,2014,2015,2010,2011,2014,2012,2016,2010,2013,2009,2015,2008,2009,2012,2001,2016,2007],"y":[11.2,10.6,5.2,3.8,2.385365,2.99996,2.95401,4.25,4,4.25,2.95401,3.1,4,3.5,4.5,2.95401,1.9,2.99996,6.375,2.699963,2.99996,3.5,2.2,4.5,2.385365],"text":"","type":"scatter","mode":"markers","marker":{"autocolorscale":false,"color":"rgba(245,100,227,1)","opacity":0.5,"size":11.3385826771654,"symbol":"circle","line":{"width":1.88976377952756,"color":"rgba(0,0,0,1)"}},"hoveron":"points","name":"snack","legendgroup":"snack","showlegend":true,"xaxis":"x","yaxis":"y","hoverinfo":"text","frame":null}],"layout":{"margin":{"t":45.4063926940639,"r":7.30593607305936,"b":41.8264840182648,"l":37.2602739726027},"plot_bgcolor":"rgba(235,235,235,1)","paper_bgcolor":"rgba(255,255,255,1)","font":{"color":"rgba(0,0,0,1)","family":"","size":14.6118721461187},"title":{"text":"Ad Cost by Year and Category","font":{"color":"rgba(0,0,0,1)","family":"","size":17.5342465753425},"x":0,"xref":"paper"},"xaxis":{"domain":[0,1],"automargin":true,"type":"linear","autorange":false,"range":[1999,2021],"tickmode":"array","ticktext":["2000","2005","2010","2015","2020"],"tickvals":[2000,2005,2010,2015,2020],"categoryorder":"array","categoryarray":["2000","2005","2010","2015","2020"],"nticks":null,"ticks":"outside","tickcolor":"rgba(51,51,51,1)","ticklen":3.65296803652968,"tickwidth":0.66417600664176,"showticklabels":true,"tickfont":{"color":"rgba(77,77,77,1)","family":"","size":11.689497716895},"tickangle":-0,"showline":false,"linecolor":null,"linewidth":0,"showgrid":true,"gridcolor":"rgba(255,255,255,1)","gridwidth":0.66417600664176,"zeroline":false,"anchor":"y","title":{"text":"Year","font":{"color":"rgba(0,0,0,1)","family":"","size":14.6118721461187}},"hoverformat":".2f"},"yaxis":{"domain":[0,1],"automargin":true,"type":"linear","autorange":false,"range":[-0.0174999999999998,23.4675],"tickmode":"array","ticktext":["0","5","10","15","20"],"tickvals":[0,5,10,15,20],"categoryorder":"array","categoryarray":["0","5","10","15","20"],"nticks":null,"ticks":"outside","tickcolor":"rgba(51,51,51,1)","ticklen":3.65296803652968,"tickwidth":0.66417600664176,"showticklabels":true,"tickfont":{"color":"rgba(77,77,77,1)","family":"","size":11.689497716895},"tickangle":-0,"showline":false,"linecolor":null,"linewidth":0,"showgrid":true,"gridcolor":"rgba(255,255,255,1)","gridwidth":0.66417600664176,"zeroline":false,"anchor":"x","title":{"text":"Cost of Ad in Millions","font":{"color":"rgba(0,0,0,1)","family":"","size":14.6118721461187}},"hoverformat":".2f"},"shapes":[{"type":"rect","fillcolor":null,"line":{"color":null,"width":0,"linetype":[]},"yref":"paper","xref":"paper","x0":0,"x1":1,"y0":0,"y1":1}],"showlegend":true,"legend":{"bgcolor":"rgba(255,255,255,1)","bordercolor":"transparent","borderwidth":1.88976377952756,"font":{"color":"rgba(0,0,0,1)","family":"","size":11.689497716895},"title":{"text":"category","font":{"color":"rgba(0,0,0,1)","family":"","size":14.6118721461187}}},"hovermode":"closest","barmode":"relative"},"config":{"doubleClick":"reset","modeBarButtonsToAdd":["hoverclosest","hovercompare"],"showSendToCloud":false},"source":"A","attrs":{"1392856e6c3ec1":{"x":{},"y":{},"fill":{},"type":"scatter"}},"cur_data":"1392856e6c3ec1","visdat":{"1392856e6c3ec1":["function (y) ","x"]},"highlight":{"on":"plotly_click","persistent":false,"dynamic":false,"selectize":false,"opacityDim":0.2,"selected":{"opacity":1},"debounce":0},"shinyEvents":["plotly_hover","plotly_click","plotly_selected","plotly_relayout","plotly_brushed","plotly_brushing","plotly_clickannotation","plotly_doubleclick","plotly_deselect","plotly_afterplot","plotly_sunburstclick"],"base_url":"https://plot.ly"},"evals":[],"jsHooks":[]}</script>
 </div>
 <div class="sourceCode" id="cb1"><pre class="sourceCode r distill-force-highlighting-css"><code class="sourceCode r"></code></pre></div>
 <!--radix_placeholder_article_footer-->

diff --git a/docs/adtheme.html b/docs/adtheme.html
@@ -2124,9 +2124,11 @@ code span.wa { color: #5e5e5e; font-style: italic; } /* Warning */
 <div class="layout-chunk" data-layout="l-body">
 <p><img src="adtheme_files/figure-html5/exploratory%20bar%20charts-1.png" width="624" /></p>
 </div>
+<p>This graph shows celebrity appearances for each category from 2000-2020. As we can see the beer brands did not use very many celebrities to promote their drink. Although the sample size of ads was heavily favored in the beer category we can see that the other categories followed the same trend. Not as drastically, but it does look like celebrities were not getting their fame from super bowl ads from the year 2000-2020.</p>
 <div class="layout-chunk" data-layout="l-body">
 <p><img src="adtheme_files/figure-html5/porportions-1.png" width="624" /></p>
 </div>
+<p>This graph depicts the use of ‘Sex Appeal’ in all brands studied in this sample. In the year 2000-2009 it looks like brands were using this to attract consumers as this number of ads was hovering around the 50% mark. From then on it has drastically decreased as brands have found other ways of promoting their products. It seems that sex appeal does not have much consumer pull as it once had in the early 2000’s.</p>
 <div class="layout-chunk" data-layout="l-body">
 <pre><code># A tibble: 8 × 3
   AdTime Frequency Proportion
@@ -2141,59 +2143,17 @@ code span.wa { color: #5e5e5e; font-style: italic; } /* Warning */
 8    100         3     0.0123</code></pre>
 </div>
 <div class="layout-chunk" data-layout="l-body">
-<pre><code># A tibble: 41 × 4
-# Groups:   diversity [2]
-    Year diversity Frequency Proportion
-   &lt;dbl&gt; &lt;lgl&gt;         &lt;int&gt;      &lt;dbl&gt;
- 1  2000 FALSE             6     0.0408
- 2  2000 TRUE              2     0.0208
- 3  2001 FALSE             7     0.0476
- 4  2001 TRUE              6     0.0625
- 5  2002 FALSE             9     0.0612
- 6  2002 TRUE              1     0.0104
- 7  2003 FALSE             5     0.0340
- 8  2003 TRUE              7     0.0729
- 9  2004 FALSE             8     0.0544
-10  2004 TRUE              3     0.0312
-11  2005 FALSE             5     0.0340
-12  2005 TRUE              3     0.0312
-13  2006 FALSE             4     0.0272
-14  2006 TRUE              3     0.0312
-15  2007 FALSE             9     0.0612
-16  2007 TRUE              5     0.0521
-17  2008 FALSE             9     0.0612
-18  2008 TRUE              4     0.0417
-19  2009 FALSE            10     0.0680
-20  2009 TRUE              5     0.0521
-21  2010 FALSE             8     0.0544
-22  2010 TRUE              6     0.0625
-23  2011 FALSE             8     0.0544
-24  2011 TRUE              1     0.0104
-25  2012 FALSE             7     0.0476
-26  2012 TRUE              8     0.0833
-27  2013 FALSE            10     0.0680
-28  2013 TRUE              5     0.0521
-29  2014 FALSE             5     0.0340
-30  2014 TRUE              9     0.0938
-31  2015 FALSE            10     0.0680
-32  2016 FALSE             5     0.0340
-33  2016 TRUE              8     0.0833
-34  2017 FALSE             2     0.0136
-35  2017 TRUE              3     0.0312
-36  2018 FALSE             9     0.0612
-37  2018 TRUE              5     0.0521
-38  2019 FALSE             9     0.0612
-39  2019 TRUE              6     0.0625
-40  2020 FALSE             2     0.0136
-41  2020 TRUE              6     0.0625</code></pre>
+<p><img src="adtheme_files/figure-html5/percentage-1.png" width="624" /></p>
 </div>
+<p>For years 2000-2020 it seems that animal use is not as frequent as one may think. Although everyone loves the Budweiser horses and puppy, not many other brands are using animals to promote their product.</p>
 <div class="layout-chunk" data-layout="l-body">
-
+<p><img src="adtheme_files/figure-html5/pie%20chartf-1.png" width="624" /></p>
 </div>
+<p>From the year 2000-2020 it seems that super bowl ads have used humor in most of their ads. With almost 70% of the ads sampled, humor is included. From personal experience it does seem humor has found its way into a lot of ads, even outside of super bowl viewing. It will be interesting to see if this trend continues or if there will be another type of ad that takes over.</p>
 <div class="layout-chunk" data-layout="l-body">
 <p><img src="adtheme_files/figure-html5/pie%20chart-1.png" width="624" /></p>
 </div>
-<div class="sourceCode" id="cb3"><pre class="sourceCode r distill-force-highlighting-css"><code class="sourceCode r"></code></pre></div>
+<div class="sourceCode" id="cb2"><pre class="sourceCode r distill-force-highlighting-css"><code class="sourceCode r"></code></pre></div>
 <!--radix_placeholder_article_footer-->
 <!--/radix_placeholder_article_footer-->
 </div>
